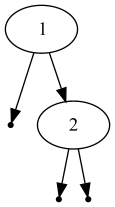
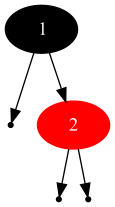
update color

Changed region(s): [[0.313, 0.4638, 0.9652, 0.7246], [0.0522, 0.029, 0.6783, 0.2609]]

diff --git a/src/main/java/backend/RedBlackTree.java b/src/main/java/backend/RedBlackTree.java
@@ -3,9 +3,14 @@ package backend;
 import guru.nidi.graphviz.attribute.Color;
 import guru.nidi.graphviz.attribute.RankDir;
 import guru.nidi.graphviz.attribute.Style;
+import guru.nidi.graphviz.engine.Format;
+import guru.nidi.graphviz.engine.Graphviz;
 import guru.nidi.graphviz.model.Factory;
 import guru.nidi.graphviz.model.Graph;
+import guru.nidi.graphviz.model.MutableGraph;
+import guru.nidi.graphviz.parse.Parser;
 
+import java.io.File;
 import java.io.IOException;
 import java.util.ArrayList;
 import java.util.List;
@@ -18,7 +23,9 @@ import static java.awt.Color.RED;
 public class RedBlackTree implements InterfaceBinarySearchTree {
     RBNode root;
     ArrayList ordered;
-
+    private StringBuilder treeDot = new StringBuilder();
+    private MutableGraph mGraph;
+    private int count;
     public RedBlackTree() {
         root = null;
     }
@@ -405,15 +412,46 @@ public class RedBlackTree implements InterfaceBinarySearchTree {
         getPreorder(node.getRight());
     }
 
-    public Graph toGraphiz() throws IOException {
-        Graph g = graph("example1").directed()
-                .graphAttr().with(RankDir.TOP_TO_BOTTOM, Color.rgba("00000000").background())
-                .with(
-                        node("a").with(Color.RED).link(node("b")).link(node("er")),
-                        node("b").link(Factory.to(node("c")).with(Style.DASHED)),
-                        node("er").with(Color.GREEN)
-                );
-        return g;
+    public File toGraphiz() {
+        this.treeDot.setLength(0);
+        this.treeDot.append("digraph BST {");
+        this.graphvizTree(this.root);
+        this.treeDot.append("}");
+        this.count = 0;
+        try {
+            this.mGraph = Parser.read(treeDot.toString());
+        } catch (IOException e) {
+            e.printStackTrace();
+        }
+        try {
+            return Graphviz.fromGraph(this.mGraph).render(Format.PNG).toFile(new File("./src/main/resources/images/tempGraph.png"));
+        } catch (IOException e) {
+            e.printStackTrace();
+        }
+
+        return null;
+    }
+
+    private void graphvizTree(RBNode root) {
+        if (root != null){
+            this.treeDot.append(root.getValue()).append("[label=").append(root.getValue()).append(",color="+((root.getColor() == RED)? "red" : "black")+",style=filled,fontcolor=white];");
+            if (root.getLeft() == null) {
+                this.treeDot.append(root.getValue()).append("-> null").append(this.count).append("; null").append(this.count).append(" [shape=point];");
+                this.count++;
+            } else {
+                this.treeDot.append(root.getValue()).append("-> ").append(root.getLeft().getValue()).append("; ");
+                graphvizTree(root.getLeft());
+            }
+
+            if (root.getRight() == null) {
+                this.treeDot.append(root.getValue()).append("-> null").append(this.count).append("; null").append(this.count).append(" [shape=point];");
+                this.count++;
+            } else {
+                this.treeDot.append(root.getValue()).append("-> ").append(root.getRight().getValue()).append("; ");
+                graphvizTree(root.getRight());
+            }
+        }
+        System.out.println(this.treeDot);
     }
 
     public static void main(String[] args) throws BinarySearchTreeException {

diff --git a/src/main/java/backend/BinarySearchTree.java b/src/main/java/backend/BinarySearchTree.java
@@ -257,6 +257,7 @@ public class BinarySearchTree implements InterfaceBinarySearchTree {
                 graphvizTree(root.getRight());
             }
         }
+        System.out.println(this.treeDot);
     }
 
     public static void main(String[] args) throws BinarySearchTreeException, IOException {
@@ -283,7 +284,6 @@ public class BinarySearchTree implements InterfaceBinarySearchTree {
         System.out.println(tree.traverse(Order.PREORDER));
         System.out.println(tree.traverse(Order.LEVELORDER));
         System.out.println(tree.getDepth());
-        tree.toGraphiz();
     }
 
 

diff --git a/src/main/java/frontend/BinarySearchTreeController.java b/src/main/java/frontend/BinarySearchTreeController.java
@@ -3,6 +3,7 @@ package frontend;
 import backend.BinarySearchTree;
 import backend.BinarySearchTreeException;
 import backend.Order;
+import backend.RedBlackTree;
 import guru.nidi.graphviz.engine.Format;
 import guru.nidi.graphviz.engine.Graphviz;
 import javafx.collections.FXCollections;
@@ -36,7 +37,7 @@ public class BinarySearchTreeController implements Initializable {
     public TextField textFInSearch;
     @FXML
     public Label depth;
-    BinarySearchTree tree = new BinarySearchTree();
+    RedBlackTree tree = new RedBlackTree();
     @FXML
     public Button btnAdd;
     @FXML
